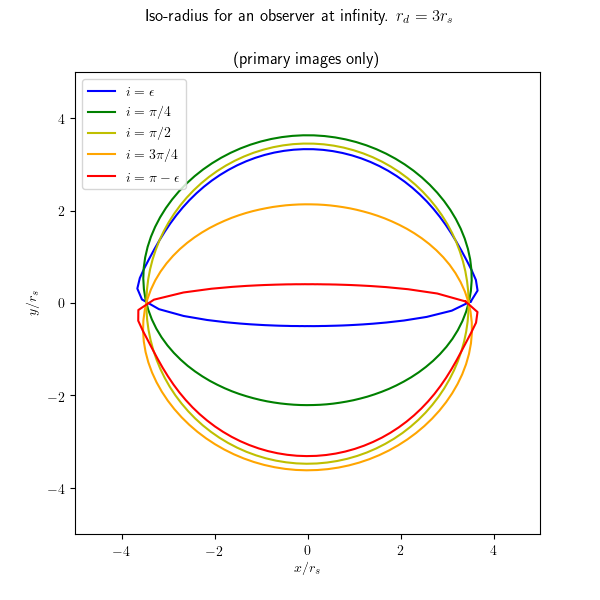
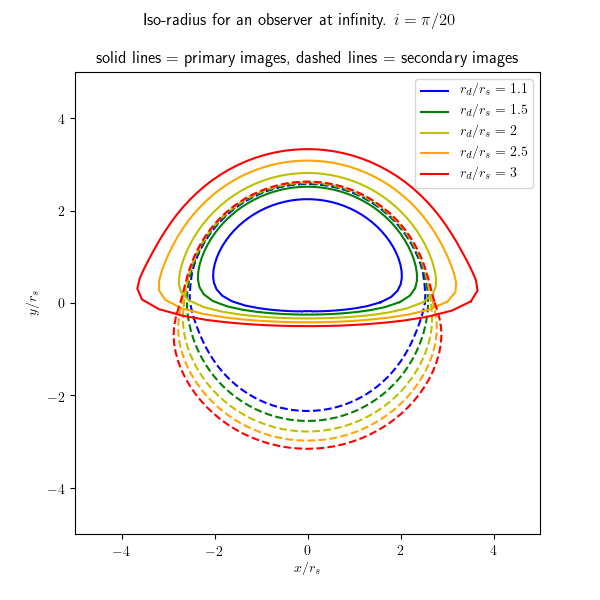
Modified the graph for part II, according to the teacher's answer. we still need to improve the angular precision !

diff --git a/Part_II.py b/Part_II.py
@@ -95,23 +95,26 @@ if draw:
 ## Plotting the iso-radius
 
 plt.figure(figsize = (6, 6))
-plt.suptitle("Iso-radius for an observer at infinity. $r_{d} = 3 r_{s}$")
-plt.title("(primary images only)")
+plt.suptitle("Iso-radius for an observer at infinity. $i = \pi / 20$")
+plt.title("solid lines = primary images, dashed lines = secondary images")
 plt.xlabel("$x / r_{s}$")
 plt.ylabel("$y / r_{s}$")
 plt.xlim(-5, 5)
 plt.ylim(-5, 5)
 
-r_d = 3 # actually this is r_d / r_s
+inclinaison = Inclinaison[5]
 
-Inclinaisons = [Inclinaison[5], Inclinaison[25], Inclinaison[50], Inclinaison[75], Inclinaison[95]]
+R_d = [1.1, 1.5, 2, 2.5, 3] # actually this is r_d / r_s
 Colors = ['b', 'g', 'y', 'orange', 'r']
-Labels = ['$i = \epsilon$', '$i = \pi / 4$', '$i = \pi / 2$', '$i = 3 \pi / 4$', '$i = \pi - \epsilon$']
+Labels = ['$r_{d} / r_{s} = 1.1$', '$r_{d} / r_{s} = 1.5$', '$r_{d} / r_{s} = 2$', '$r_{d} / r_{s} = 2.5$', '$r_{d} / r_{s} = 3$']
 
 j = 0
-for inclinaison in Inclinaisons:
+for r_d in R_d:
     X, Y = functions.read_abacus(inclinaison, r_d, Alpha, Abacus_1, Abacus_1_support)
     plt.plot(X, Y, color = Colors[j], label = Labels[j])
+    
+    X, Y = functions.read_abacus(inclinaison, r_d, Alpha, Abacus_2, Abacus_2_support)
+    plt.plot(X, Y, color = Colors[j], linestyle =  '--')
     j += 1
 
 plt.legend()
